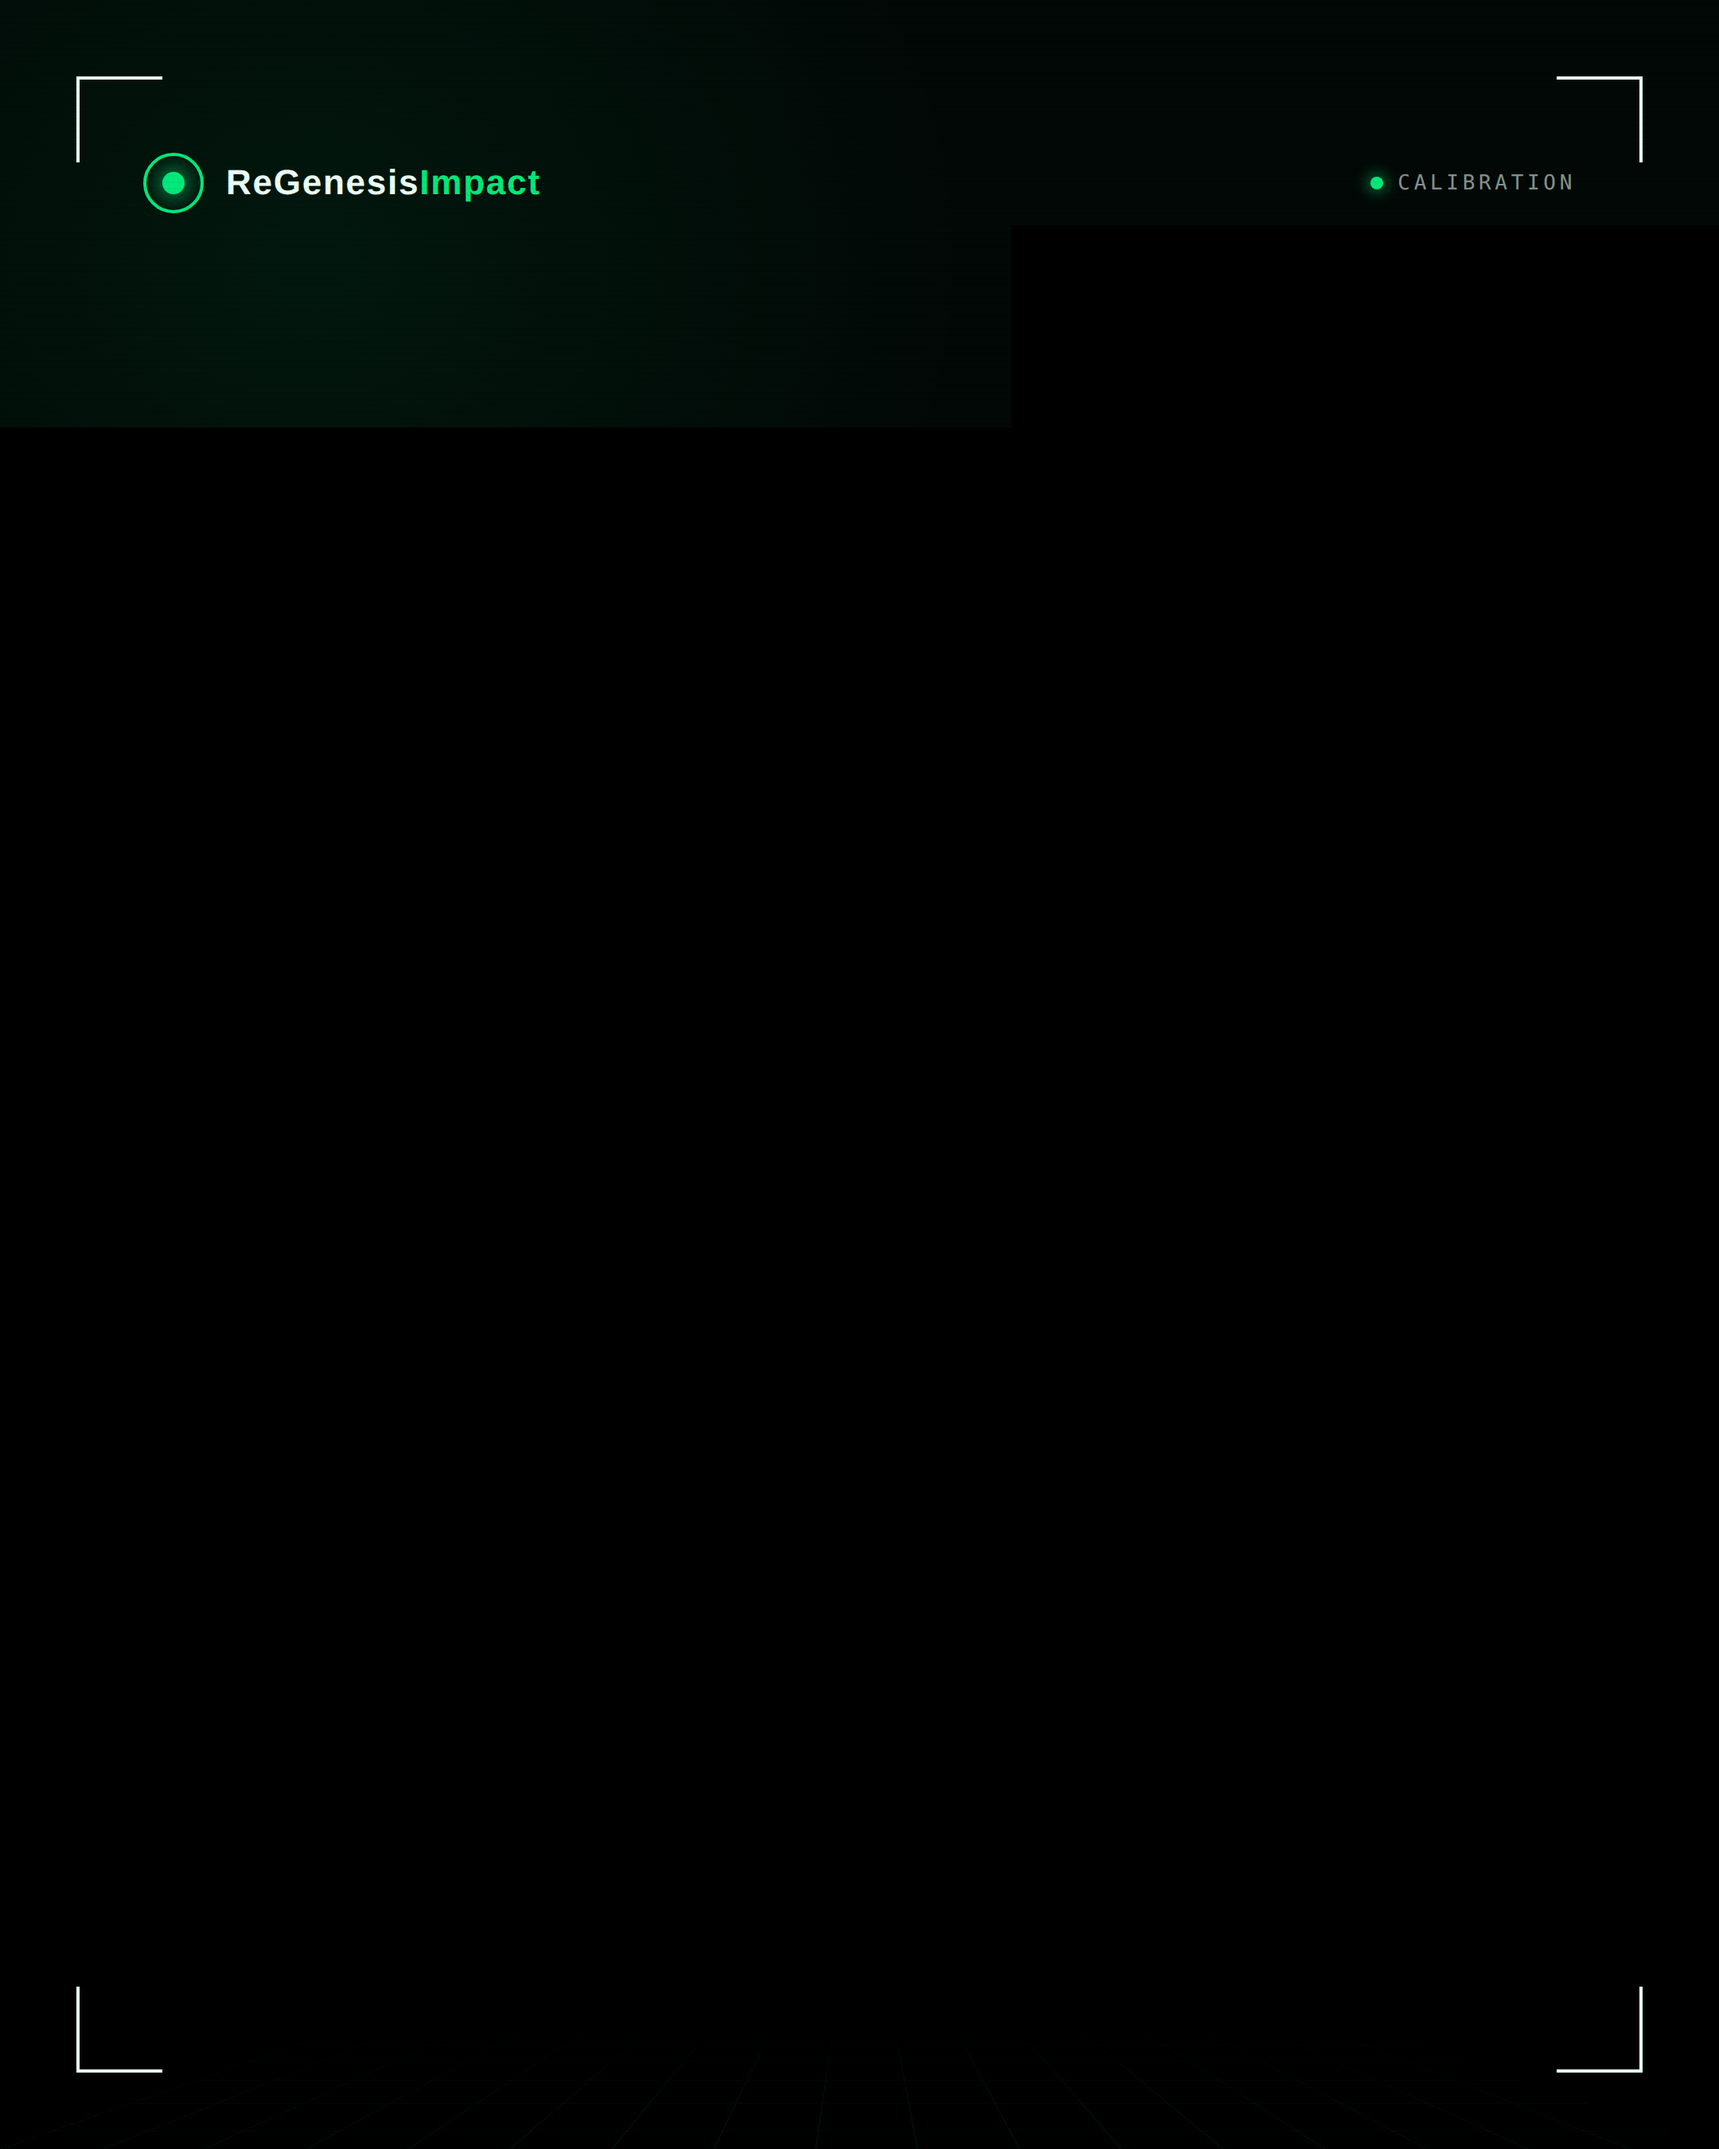
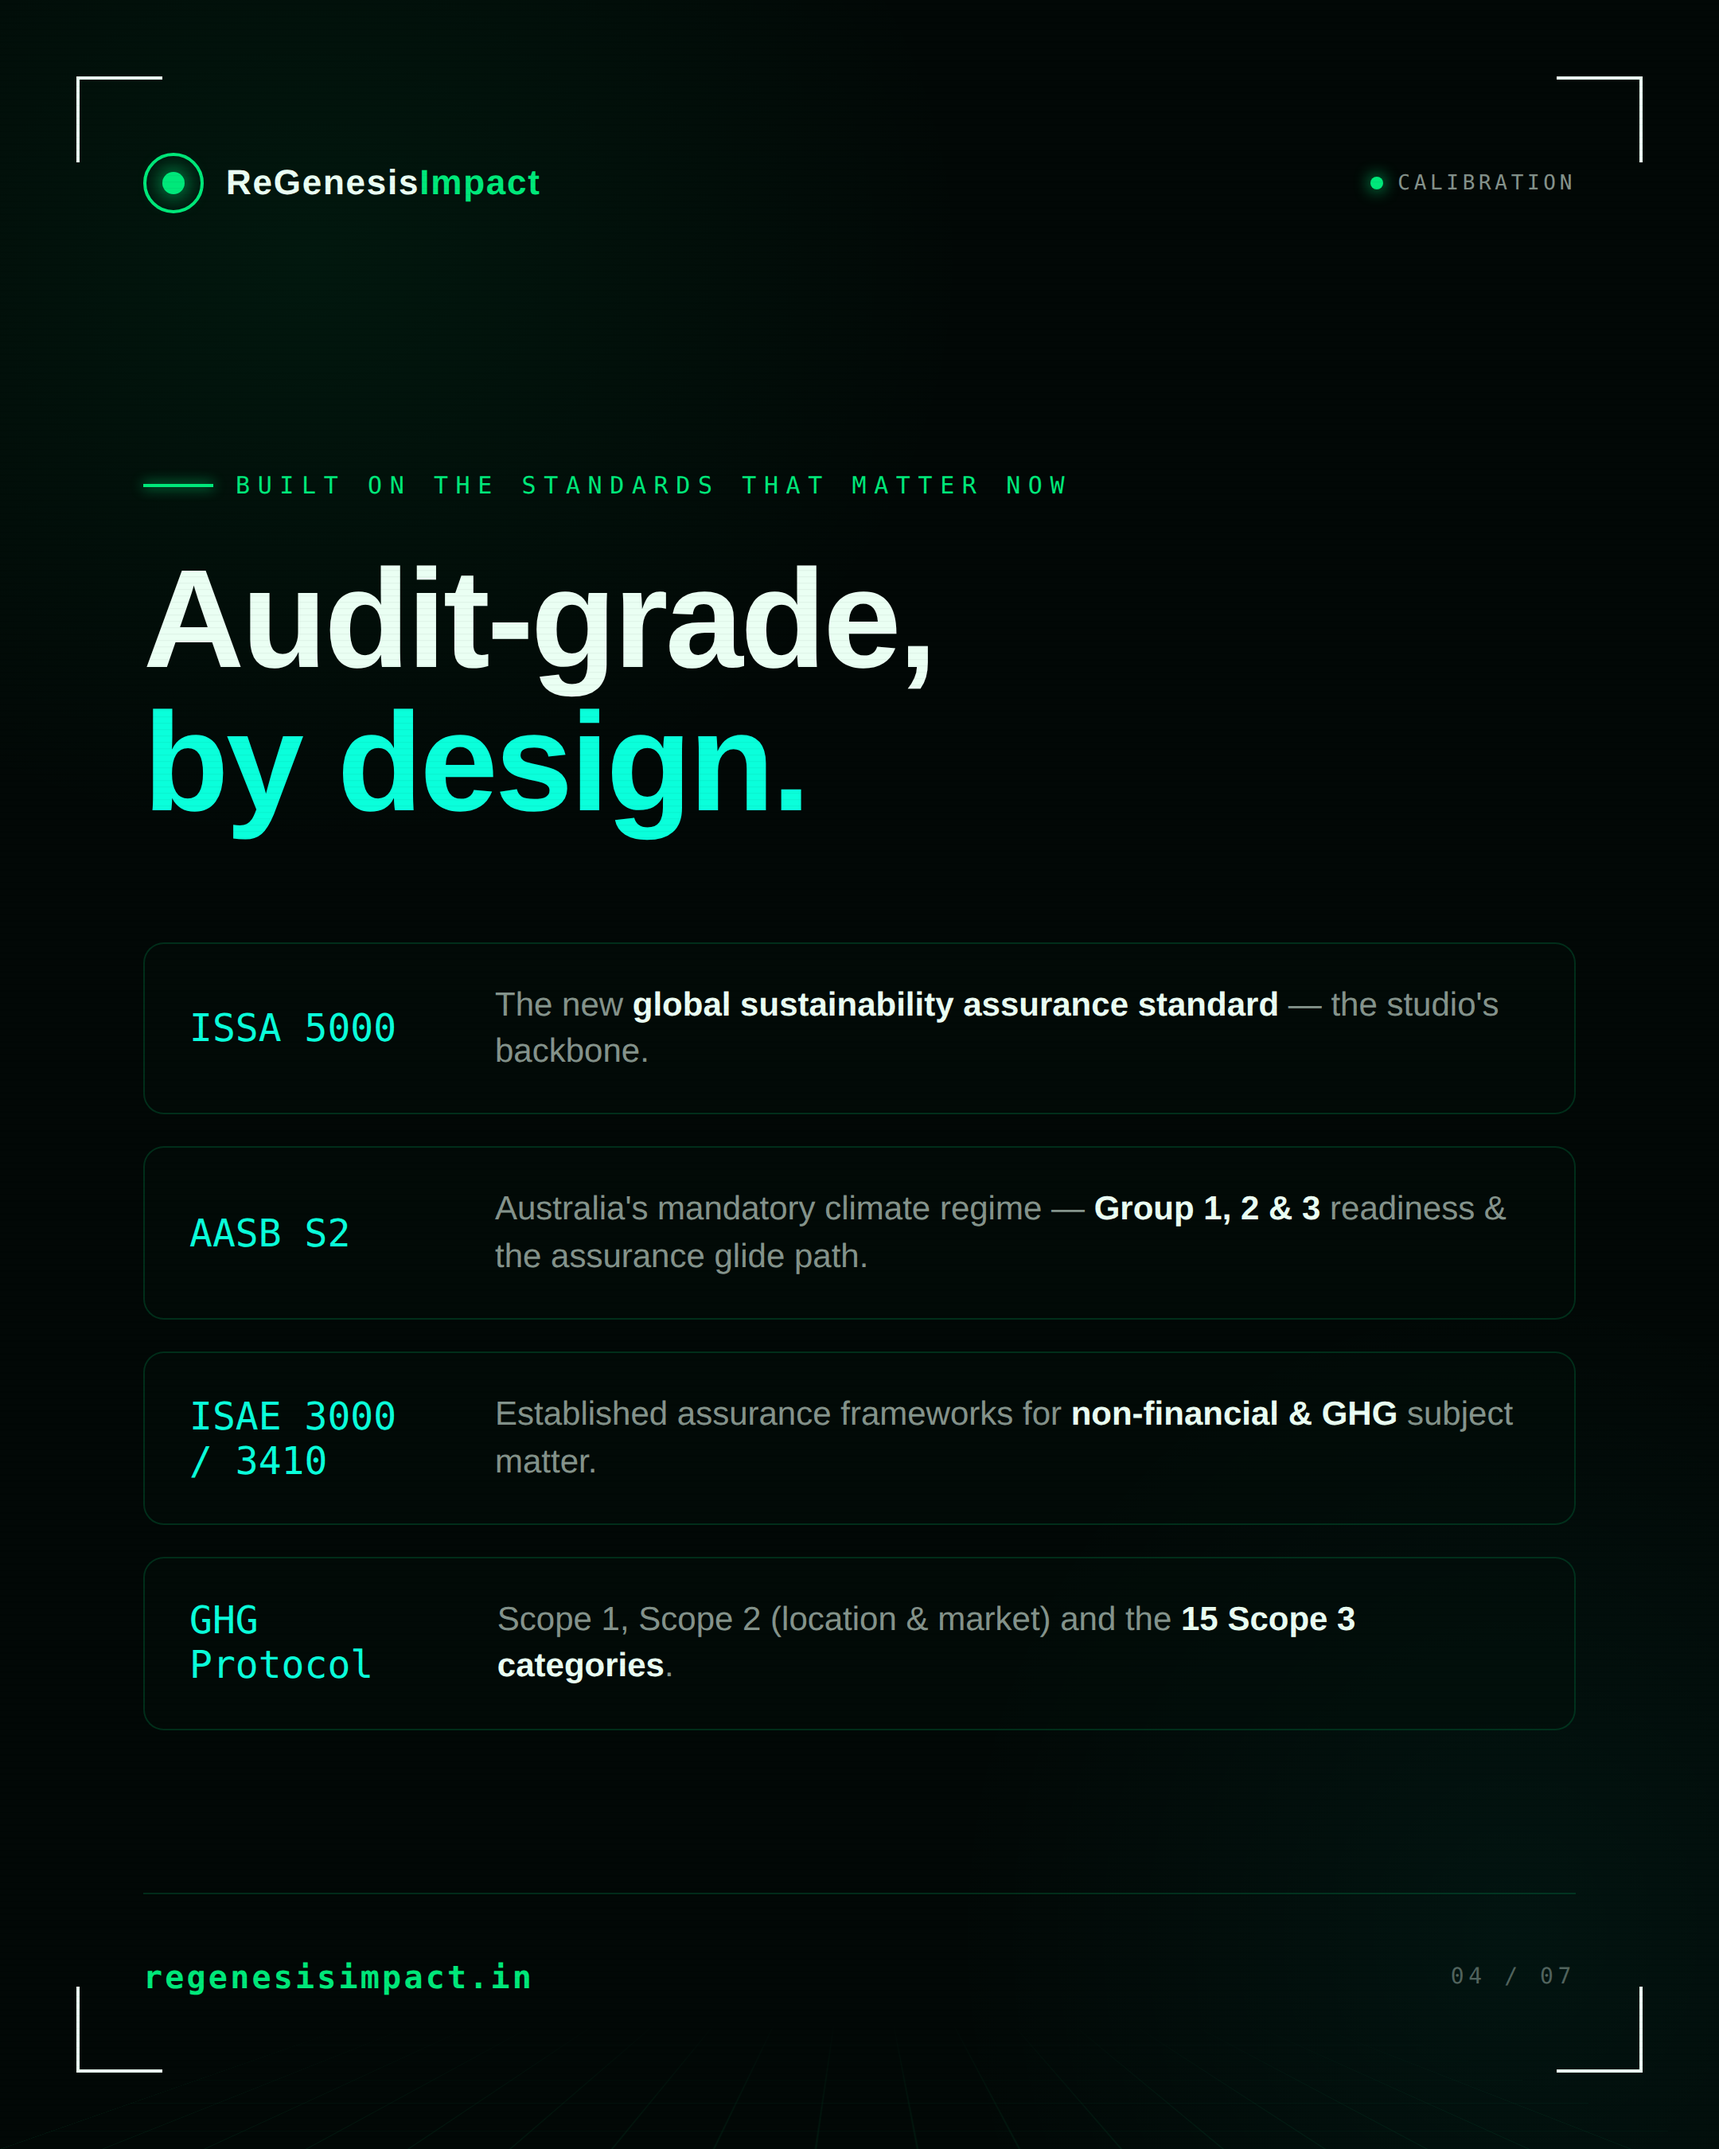
Fix blank slide 4 in launch carousel
Slide 4 rendered blank — Chromium didn't paint its off-screen tile
before the element screenshot was clipped. Harden render.js to scroll
each slide into view, force a reflow + double rAF, and settle before
capture. Also escape a bare ampersand in the AASB S2 row.

https://claude.ai/code/session_01RRCbVYtmMWNgKKtWtWNoFa

diff --git a/deck/render.js b/deck/render.js
@@ -1,6 +1,8 @@
 const puppeteer = require('puppeteer');
 const path = require('path');
 
+const sleep = ms => new Promise(r => setTimeout(r, ms));
+
 (async () => {
   const browser = await puppeteer.launch({
     headless: 'new',
@@ -10,16 +12,28 @@ const path = require('path');
   await page.setViewport({ width: 1080, height: 1350, deviceScaleFactor: 2 });
   const file = 'file://' + path.resolve(__dirname, 'deck.html');
   await page.goto(file, { waitUntil: 'networkidle0', timeout: 60000 });
-  // give web fonts a beat to settle
-  try { await page.evaluateHandle('document.fonts.ready'); } catch (e) {}
-  await new Promise(r => setTimeout(r, 1200));
+  // ensure web fonts are fully loaded before any layout/paint
+  try { await page.evaluate(() => document.fonts.ready); } catch (e) {}
+  await sleep(1500);
 
   const ids = ['s1','s2','s3','s4','s5','s6','s7'];
   for (let i = 0; i < ids.length; i++) {
-    const el = await page.$('#' + ids[i]);
+    const sel = '#' + ids[i];
+    // scroll the slide into view and force a reflow + two animation frames
+    // so Chromium actually paints this tile before we clip the screenshot
+    await page.evaluate((s) => {
+      const el = document.querySelector(s);
+      el.scrollIntoView({ block: 'start', behavior: 'instant' });
+      // force reflow
+      void el.offsetHeight;
+    }, sel);
+    await page.evaluate(() => new Promise(r => requestAnimationFrame(() => requestAnimationFrame(r))));
+    await sleep(350);
+
+    const el = await page.$(sel);
     const n = String(i + 1).padStart(2, '0');
     const out = path.resolve(__dirname, `regenesis-slide-${n}.png`);
-    await el.screenshot({ path: out });
+    await el.screenshot({ path: out, captureBeyondViewport: false });
     console.log('wrote', out);
   }
   await browser.close();

diff --git a/deck/deck.html b/deck/deck.html
@@ -228,7 +228,7 @@ h1 .c{color:var(--cyan)}
     </div>
     <div class="std-wrap" style="margin-top:40px">
       <div class="std"><div class="code">ISSA 5000</div><div class="desc">The new <b>global sustainability assurance standard</b> — the studio's backbone.</div></div>
-      <div class="std"><div class="code">AASB S2</div><div class="desc">Australia's mandatory climate regime — <b>Group 1, 2 &amp; 3</b> readiness & the assurance glide path.</div></div>
+      <div class="std"><div class="code">AASB S2</div><div class="desc">Australia's mandatory climate regime — <b>Group 1, 2 &amp; 3</b> readiness &amp; the assurance glide path.</div></div>
       <div class="std"><div class="code">ISAE 3000<br>/ 3410</div><div class="desc">Established assurance frameworks for <b>non-financial &amp; GHG</b> subject matter.</div></div>
       <div class="std"><div class="code">GHG Protocol</div><div class="desc">Scope 1, Scope 2 (location &amp; market) and the <b>15 Scope 3 categories</b>.</div></div>
     </div>
